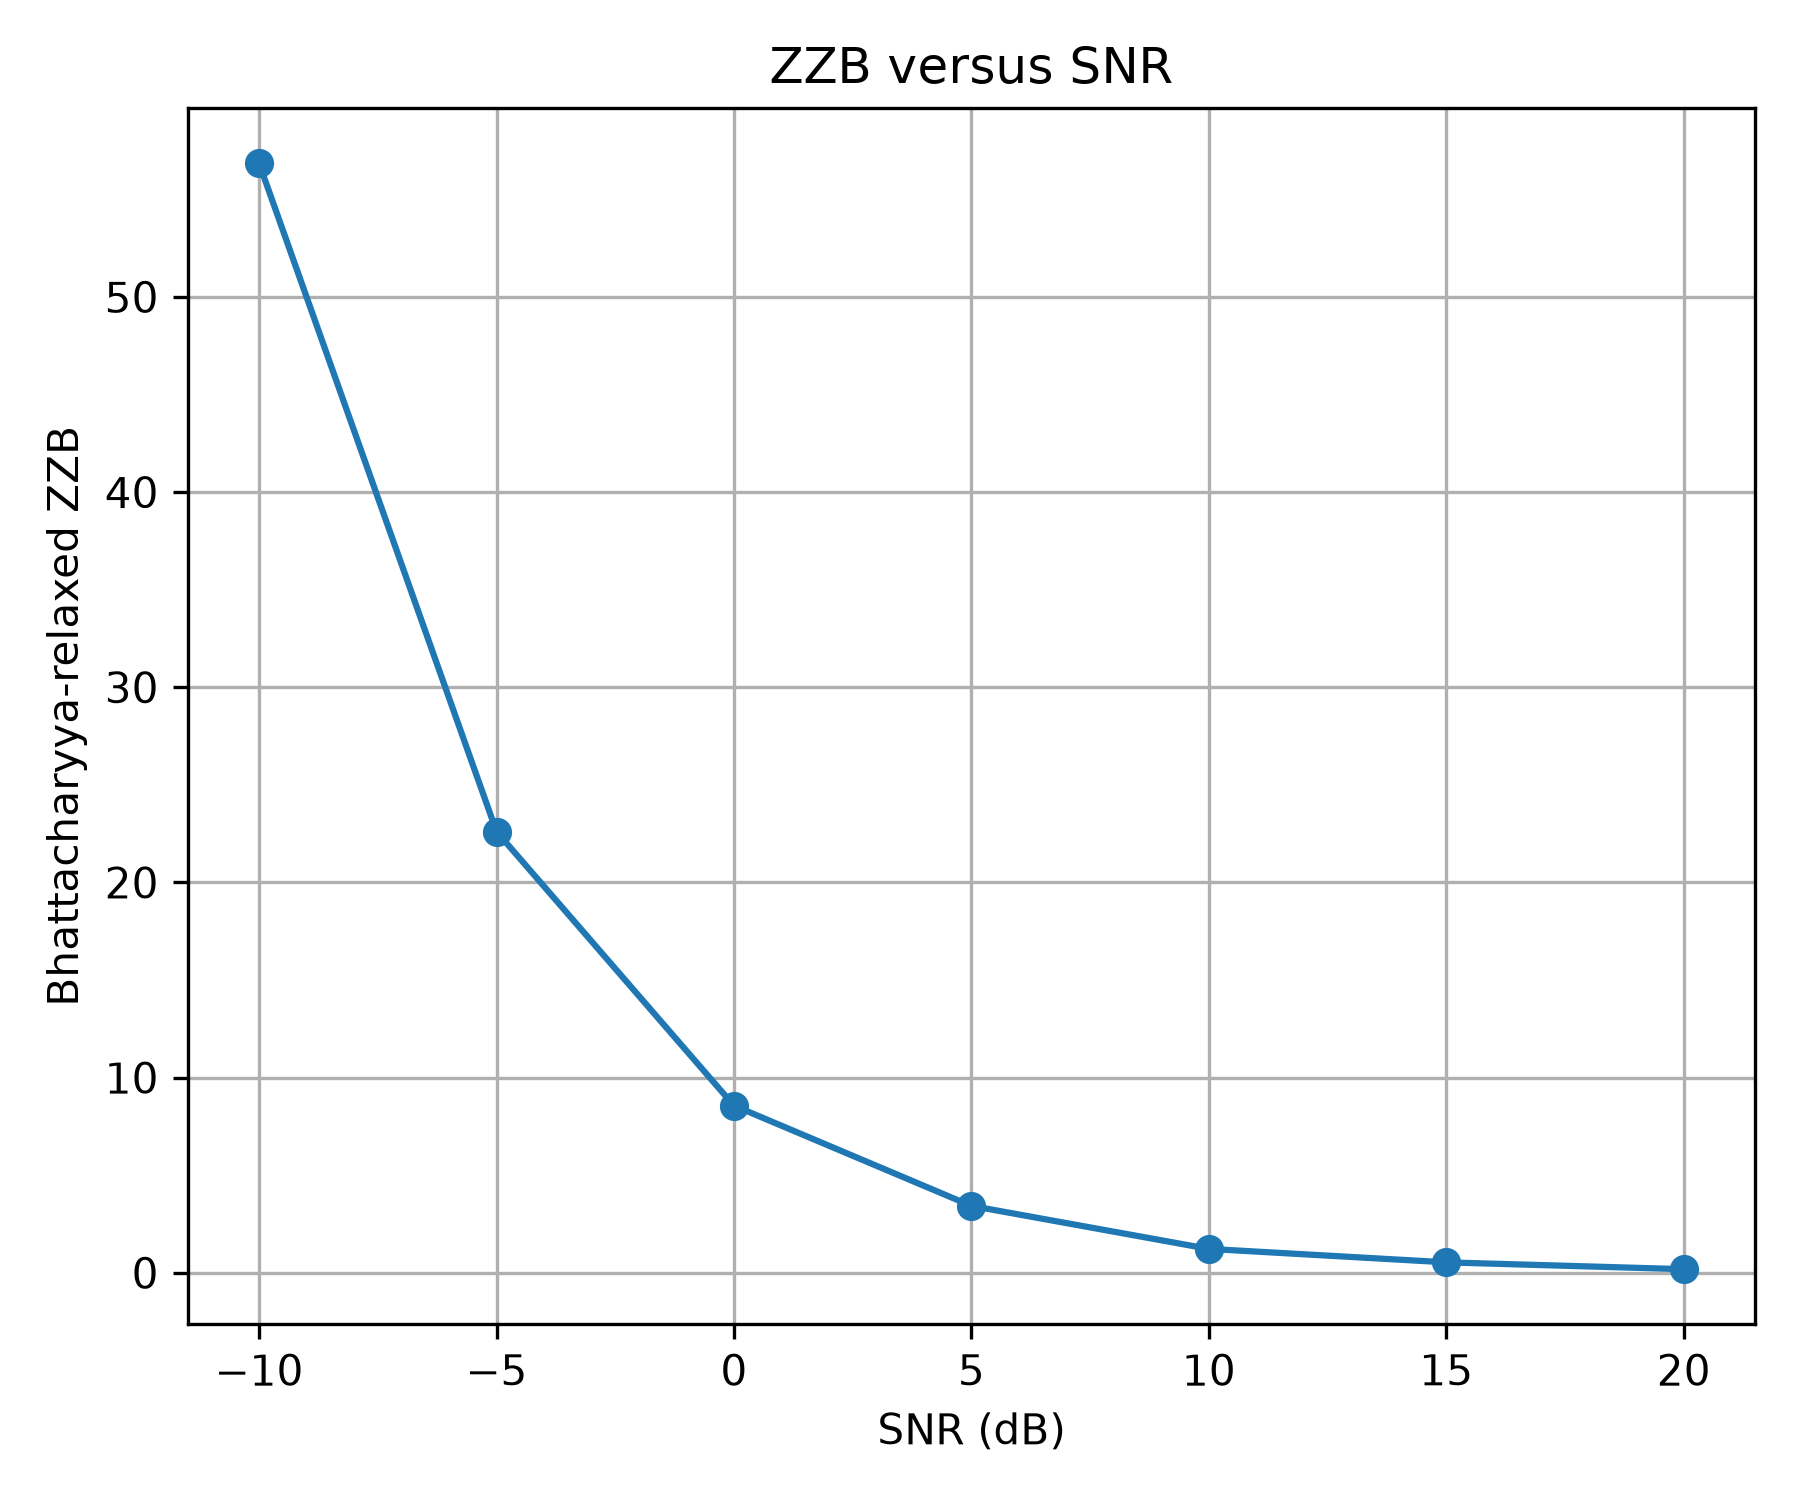
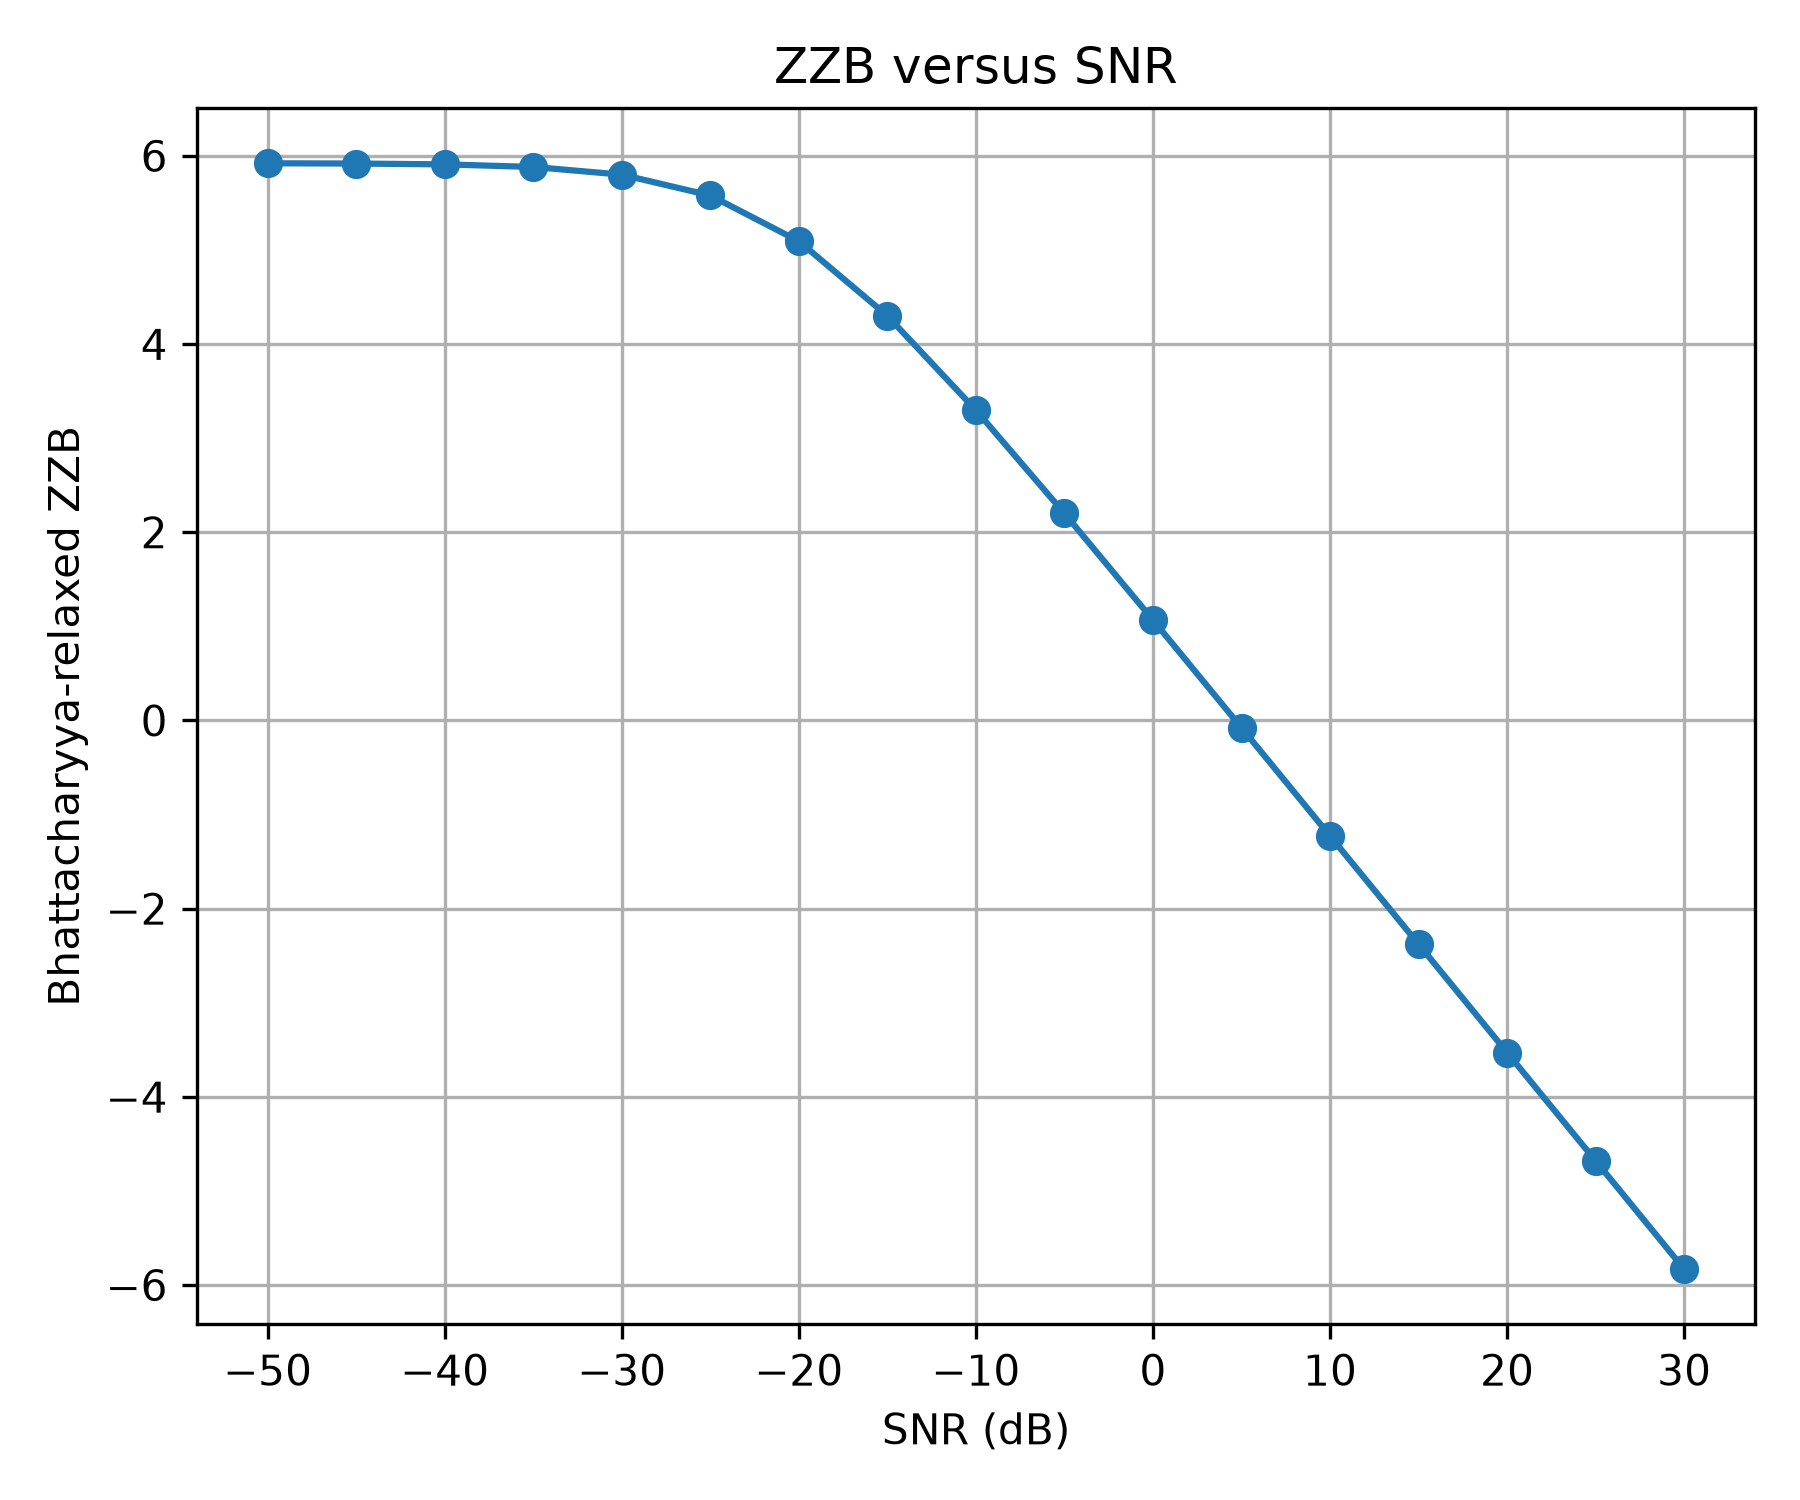
Fixed mode simulation

diff --git a/Src/config.py b/Src/config.py
@@ -75,8 +75,9 @@ H_VALUES = range(H_MAX + 1)
 # ==========================================================
 
 # SNR sweep (dB)
-SNR_LIST = [-10, -5, 0, 5, 10, 15, 20]
-
+#SNR_LIST = [-10, -5, 0, 5, 10, 15, 20]
+SNR_LIST= [-50, -45, -40, -35, -30, -25, -20, -15, -10, -5, 0, 5, 10, 15, 20, 25, 30]
+#SNR_LIST = [0, 5, 10, 15, 20,25,30]
 # Bandwidth sweep (Hz)
 BANDWIDTH_LIST = [
     1e6,
@@ -84,4 +85,16 @@ BANDWIDTH_LIST = [
     5e6,
     10e6,
     20e6,
+]
+
+# ==========================================================
+# Scenario
+# ==========================================================
+
+SCENARIO_MODE = "fixed"
+
+FIXED_TAUS = [
+    60,
+    120,
+    200,
 ]

diff --git a/Src/scenario.py b/Src/scenario.py
@@ -31,7 +31,7 @@ def generate_scenario(
     max_delay: int,
     min_spacing: int = 0,
     mode: str = "random",
-    taus: Optional[np.ndarray] = None,
+    fixed_taus: Optional[np.ndarray] = None,
 ) -> np.ndarray:
     """
     Generate one target scenario.
@@ -56,7 +56,7 @@ def generate_scenario(
         "fixed"
             Use user-provided delays.
 
-    taus
+    fixed_taus
         Required when mode="fixed".
 
     Returns
@@ -75,19 +75,19 @@ def generate_scenario(
 
     elif mode == "fixed":
 
-        if taus is None:
+        if fixed_taus is None:
             raise ValueError(
-                "taus must be provided when mode='fixed'."
+                "fixed_taus must be provided when mode='fixed'."
             )
 
-        taus = np.asarray(taus, dtype=int)
+        fixed_taus = np.asarray(fixed_taus, dtype=int)
 
-        if len(taus) != K:
+        if len(fixed_taus) != K:
             raise ValueError(
-                "Length of taus must equal K."
+                "Length of fixed_taus must equal K."
             )
 
-        return np.sort(taus)
+        return np.sort(fixed_taus)
 
     else:
 

diff --git a/Src/config_class.py b/Src/config_class.py
@@ -44,6 +44,10 @@ class SimulationConfig:
 
     snr_db: float = 10.0
 
+    scenario_mode: str = "fixed"
+
+    fixed_taus: list | None = None
+
 from .config import *
 
 def default_config():
@@ -69,4 +73,8 @@ def default_config():
         sigma_alpha=SIGMA_ALPHA,
 
         snr_db=SNR_DB,
+
+        scenario_mode=SCENARIO_MODE,
+
+        fixed_taus=FIXED_TAUS,
     )

diff --git a/Experiment/05_snr_sweep.py b/Experiment/05_snr_sweep.py
@@ -78,7 +78,7 @@ for i, snr in enumerate(SNR_LIST):
     # --------------------------------------
 
     pe_vf = valley_filling(pe_curve)
-
+    #pe_vf=pe_curve
     # --------------------------------------
     # ZZB
     # --------------------------------------
@@ -169,7 +169,7 @@ plt.plot(
 
     SNR_LIST,
 
-    zzb_all,
+    np.log(zzb_all),
 
     marker="o",
 

diff --git a/Src/monte_carlo.py b/Src/monte_carlo.py
@@ -95,7 +95,8 @@ def monte_carlo_pe(
             K=config.K,
             max_delay=config.max_delay,
             min_spacing=config.min_spacing,
-            mode="random",
+            mode=config.scenario_mode,
+            fixed_taus=config.fixed_taus,
         )
 
         # ----------------------------------

diff --git a/Src/probability.py b/Src/probability.py
@@ -51,4 +51,4 @@ def similarity(BD: float) -> float:
     float
     """
 
-    return float(np.exp(-2.0 * BD))
+    return float(np.exp(-BD))